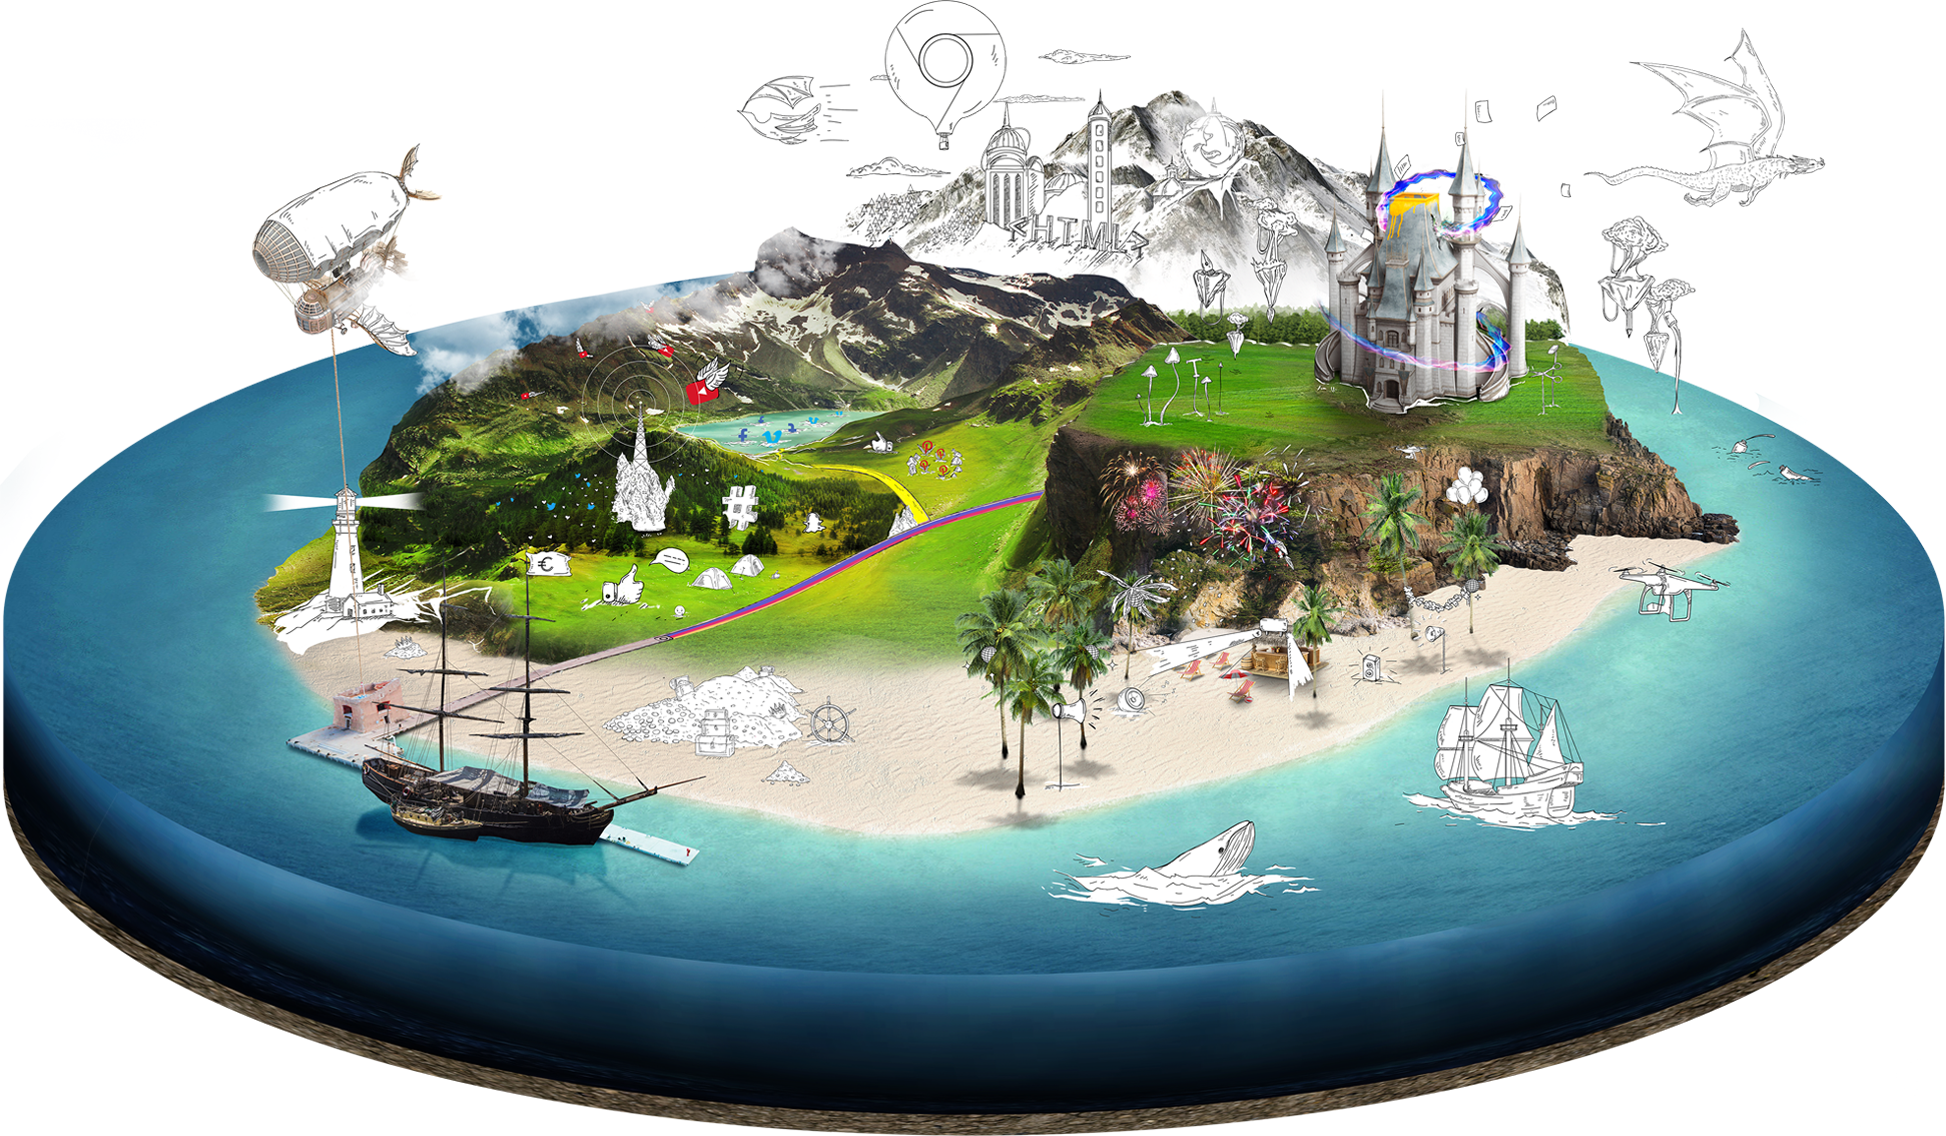
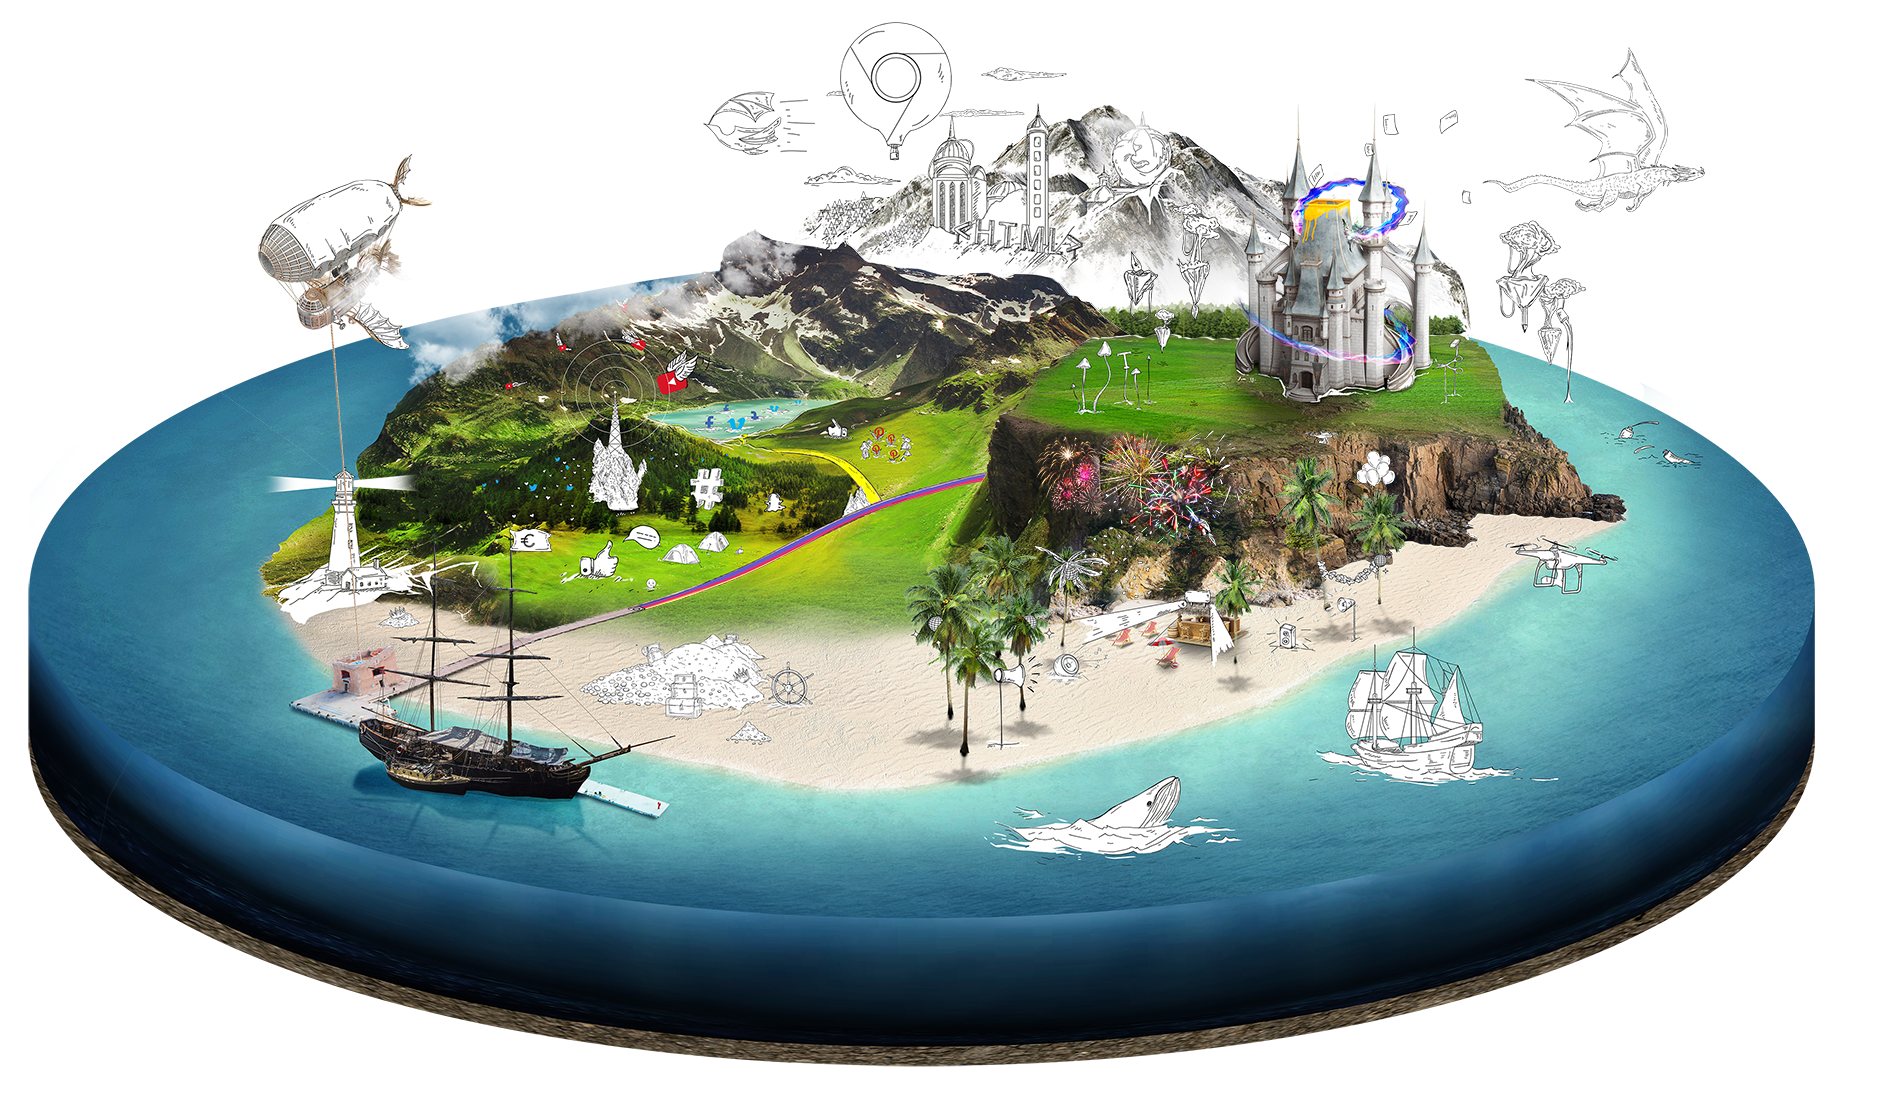
map-image

diff --git a/index.html b/index.html
@@ -17,32 +17,34 @@
   <main>
       <div class="grpelem" id="island">
       <img class="block" id="island_img" src="images/wyspa%20www.png" alt="" usemap="#Map"  />
-<map name="Map" id="Map">
-    <area alt="" title="" href="#" shape="poly" coords="1042,499,1011,506,967,518,926,530,891,547,861,562,827,580,790,597,759,609,723,623,686,637,644,647,612,656,580,665,555,667,533,663,531,656,531,619,531,575,577,575,567,560,570,555,550,551,534,554,524,550,526,616,507,611,495,583,472,576,440,574,410,574,384,566,375,555,366,544,361,525,358,516,358,505,429,511,420,503,425,495,357,500,357,494,348,484,333,328,344,335,354,329,361,329,380,348,397,354,420,353,408,342,408,328,396,331,391,325,380,310,370,304,363,300,392,283,415,283,426,275,410,269,406,261,406,256,397,252,397,234,402,220,408,209,409,196,441,200,437,195,423,192,410,190,405,181,413,174,415,157,417,145,404,155,399,173,394,183,374,174,350,178,329,186,304,197,281,210,260,229,251,247,254,264,263,277,280,290,293,305,294,322,304,336,328,333,344,489,334,497,185,414,127,445,81,481,47,514,17,559,4,596,4,799,22,851,54,893,100,937,146,967,189,988,233,1011,273,1026,326,1045,384,1061,430,1075,494,1088,549,1102,602,1109,665,1116,717,1124,769,1128,836,1133,827,988,827,900,834,846,849,793,880,729,921,650" />
-
-    <area alt="" title="" href="#" shape="poly" coords="849,1134,838,1132,828,991,829,901,836,840,852,792,873,750,888,715,954,611,985,572,1011,540,1035,504,1062,508,1099,531,1128,577,1139,575,1151,573,1169,583,1178,588,1167,647,1255,629,1262,619,1277,621,1289,617,1304,611,1294,602,1295,595,1303,599,1307,603,1307,595,1299,588,1311,591,1317,595,1319,595,1321,590,1328,589,1328,597,1323,602,1336,604,1347,611,1334,612,1336,618,1342,624,1344,633,1363,636,1383,634,1394,625,1404,612,1405,595,1406,578,1405,563,1399,560,1388,557,1388,543,1388,538,1381,549,1379,542,1382,530,1386,520,1389,511,1378,518,1366,515,1360,511,1369,509,1377,501,1365,498,1361,494,1371,491,1383,497,1378,482,1378,475,1391,485,1390,471,1404,468,1404,483,1403,491,1412,485,1424,491,1412,496,1410,506,1422,512,1435,526,1412,520,1419,554,1404,547,1401,557,1409,578,1422,596,1436,603,1450,601,1459,590,1465,576,1465,566,1451,570,1455,557,1445,550,1438,550,1442,541,1453,537,1441,534,1439,526,1461,530,1456,514,1466,514,1462,503,1450,498,1448,493,1450,484,1451,480,1457,477,1458,475,1461,464,1469,466,1472,469,1477,471,1485,476,1485,484,1485,487,1489,496,1485,504,1482,508,1487,510,1490,512,1487,528,1487,533,1495,530,1504,530,1498,539,1509,544,1515,556,1499,553,1488,549,1504,561,1491,557,1491,580,1478,564,1476,576,1481,589,1475,595,1502,570,1508,561,1529,568,1548,572,1568,573,1575,567,1575,557,1567,545,1576,532,1603,538,1620,536,1639,540,1661,540,1688,539,1705,543,1723,546,1735,542,1924,548,1942,591,1945,615,1945,793,1930,845,1906,878,1875,915,1838,941,1795,970,1746,996,1693,1018,1645,1036,1586,1057,1519,1072,1447,1091,1381,1104,1275,1117,1208,1125,1122,1134" />
+<map name="Map">
+     <area target="" alt="1" title="1" href="#" coords="410,346,399,336,400,324,385,316,377,309,369,302,364,291,367,281,377,273,385,268,394,276,397,263,387,249,387,238,392,226,395,214,400,203,410,203,419,206,430,201,419,194,405,191,402,178,410,168,410,155,400,160,395,168,390,185,375,178,360,178,339,185,326,191,306,198,287,208,271,221,262,236,259,249,261,263,267,274,296,279,309,283,302,291,296,306,299,316,302,324,317,329,329,322,339,472,222,391,202,401,175,412,157,422,140,432,118,449,107,457,65,502,27,560,28,769,55,824,87,857,112,879,152,905,187,924,226,945,268,962,316,980,366,995,413,1010,466,1022,512,1031,555,1040,604,1045,645,1050,693,1056,747,1060,805,1063,835,1061,805,995,785,945,776,909,776,884,785,847,800,796,816,754,835,711,855,669,868,636,883,608,904,579,928,548,946,523,961,501,984,480,944,486,909,496,868,511,838,528,803,544,766,561,730,578,682,597,649,607,624,611,584,621,541,627,512,627,514,592,536,596,511,581,511,549,549,549,547,534,531,529,514,528,511,564,502,589,489,589,511,599,457,597,442,586,434,578,423,561,406,549,379,539,366,523,361,506,356,486,421,493,409,481,419,473,356,475,344,460,331,332,339,323,349,317,361,327,374,338,389,348,399,348" shape="poly">
+    <area target="" alt="2" title="2" href="#" coords="833,1061,813,1015,798,980,782,937,777,909,778,870,788,829,803,784,830,719,851,671,868,638,881,605,910,571,934,536,956,504,966,501,978,507,994,521,1009,536,1016,552,1036,557,1032,544,1059,556,1069,544,1076,552,1092,556,1109,564,1082,562,1101,572,1081,572,1087,590,1071,580,1067,619,1180,600,1187,587,1209,590,1230,584,1210,571,1227,574,1220,557,1239,569,1253,567,1245,577,1265,582,1247,585,1258,592,1247,595,1249,604,1277,605,1303,600,1317,590,1322,577,1313,534,1302,536,1303,517,1292,524,1293,506,1282,512,1300,492,1268,494,1287,486,1272,473,1297,477,1295,458,1307,466,1315,453,1317,473,1333,468,1318,484,1343,504,1325,497,1330,521,1315,504,1327,567,1340,567,1353,559,1370,559,1373,542,1363,547,1353,536,1353,524,1363,519,1350,512,1365,506,1365,496,1366,486,1355,474,1362,466,1366,456,1373,449,1381,456,1391,461,1395,473,1390,482,1378,484,1390,496,1401,496,1391,511,1408,511,1401,522,1425,524,1405,529,1411,537,1428,544,1460,547,1474,539,1463,532,1470,521,1476,512,1504,514,1515,511,1532,516,1545,516,1564,518,1584,518,1603,519,1622,519,1795,521,1806,549,1813,574,1815,616,1813,744,1803,790,1785,825,1753,859,1706,894,1637,934,1566,965,1491,992,1408,1013,1322,1030,1241,1043,1152,1055,1071,1060,1006,1065,948,1065,895,1063,860,1063" shape="poly">
+    <area target="" alt="3" title="3" href="#" coords="986,476,959,501,972,503,986,514,997,526,1009,538,1014,551,1035,556,1032,543,1059,554,1067,544,1109,564,1085,563,1100,571,1084,571,1089,589,1072,581,1067,617,1180,599,1187,588,1210,589,1228,583,1208,571,1223,573,1220,556,1238,569,1255,564,1245,576,1263,581,1248,584,1256,589,1246,594,1275,604,1301,598,1318,589,1321,578,1313,531,1301,536,1303,516,1290,523,1295,504,1281,511,1300,491,1268,493,1286,483,1270,473,1296,476,1295,456,1308,466,1313,453,1318,473,1331,470,1318,485,1341,501,1325,496,1328,518,1315,503,1330,566,1346,563,1366,559,1371,539,1363,546,1353,534,1361,519,1349,509,1363,504,1366,485,1356,475,1361,466,1373,448,1381,456,1391,461,1396,473,1389,480,1379,483,1389,495,1399,495,1391,509,1406,511,1401,521,1426,523,1406,529,1413,538,1431,544,1449,546,1462,544,1472,539,1454,529,1469,528,1477,513,1500,512,1513,510,1530,515,1547,517,1565,515,1582,518,1794,520,1774,497,1751,470,1726,452,1698,432,1666,414,1633,394,1600,379,1572,369,1543,357,1512,349,1480,339,1469,334,1429,334,1430,271,1435,261,1429,246,1424,226,1424,200,1419,235,1410,259,1415,271,1414,281,1382,248,1389,241,1391,225,1402,218,1406,206,1406,191,1396,183,1386,176,1377,165,1374,141,1374,123,1374,100,1372,151,1367,171,1352,176,1339,178,1324,181,1309,186,1304,171,1299,148,1299,125,1297,102,1297,135,1294,163,1289,178,1279,196,1283,205,1283,223,1289,231,1288,241,1266,261,1264,249,1258,233,1253,216,1251,203,1249,225,1248,239,1244,251,1246,259,1246,301,1245,324,1238,335,1222,337,1207,337,1183,337,1170,332,1165,320,1173,315,1165,304,1154,309,1154,319,1154,329,1135,335,1122,335,1099,335,1084,342,1074,348,1060,355,1047,360,1037,368,1026,387,1022,395,1014,405,1004,412,996,420,994,430,986,441,991,453,987,465" shape="poly">
+    <area target="" alt="4" title="4" href="#" coords="790,240,800,228,806,213,819,205,829,203,836,195,844,198,853,193,859,197,864,190,871,195,884,197,894,192,904,185,914,177,924,175,929,163,936,148,947,142,952,114,957,140,966,147,971,158,979,163,992,158,1004,147,1017,140,1027,128,1034,115,1037,100,1040,118,1049,123,1064,118,1077,118,1092,109,1109,104,1120,112,1134,123,1142,109,1145,123,1158,132,1170,128,1183,135,1198,145,1213,155,1227,165,1237,163,1250,173,1260,177,1271,178,1283,182,1280,192,1283,203,1282,218,1290,231,1288,240,1265,258,1263,246,1255,223,1250,200,1245,250,1247,260,1245,303,1245,318,1240,328,1227,336,1210,336,1197,336,1182,336,1164,319,1174,313,1164,301,1154,308,1154,324,1137,334,1127,333,1107,318,1089,300,1074,296,1064,285,1051,275,1031,273,1012,271,1004,275,979,270,966,275,948,275,928,270,911,268,894,266,876,265,863,261,841,240,836,248,810,244,799,240" shape="poly">
+    <area target="" alt="5" title="5" href="#" coords="401,324,430,319,461,311,495,304,531,296,568,291,608,283,642,279,686,269,719,271,722,253,729,243,744,233,754,229,764,234,787,238,797,238,807,243,835,246,843,238,863,259,895,264,920,268,942,274,966,274,980,269,1003,276,1013,268,1050,276,1071,294,1089,299,1101,313,1114,323,1129,334,1098,336,1076,344,1056,356,1040,362,1028,384,1016,399,1000,416,993,427,985,439,990,454,985,474,976,480,958,484,943,485,920,494,892,502,867,510,845,524,822,533,800,543,774,557,754,565,734,575,704,588,682,597,651,607,637,607,613,612,583,618,566,622,541,625,511,626,513,590,536,593,511,578,513,547,549,547,546,532,513,528,509,562,503,587,508,598,481,595,455,595,435,580,421,560,406,550,383,538,365,524,360,507,355,485,222,389" shape="poly">
 </map>
      </div>
     <!-- images 
     <div class="grpelem" id="chmury">
-      <img class="block" id="chmury_img" src="images/lemonhills%20kv%20--%20totalnie%20aktualny%20v33333%20sp%c5%82aszcony%20v3%20flat-chmury.png?crc=4262146640" alt="" />
+      <img class="block" id="chmury_img" src="images/chmury.png?crc=4262146640" alt="" />
      </div>
      <div class="grpelem" id="www">
-      <img class="block" id="www_img" src="images/lemonhills%20kv%20--%20totalnie%20aktualny%20v33333%20sp%c5%82aszcony%20v3%20flat-www.png?crc=3798000139" alt="" />
+      <img class="block" id="www_img" src="images/www.png?crc=3798000139" alt="" />
      </div>
      <div class="grpelem" id="sm">
-      <img class="block" id="sm_img" src="images/lemonhills%20kv%20--%20totalnie%20aktualny%20v33333%20sp%c5%82aszcony%20v3%20flat-sm.png?crc=250162591" alt="" />
+      <img class="block" id="sm_img" src="images/sm.png?crc=250162591" alt="" />
      </div>
      <div class="grpelem" id="kreacja">
-      <img class="block" id="kreacja_img" src="images/lemonhills%20kv%20--%20totalnie%20aktualny%20v33333%20sp%c5%82aszcony%20v3%20flat-krea.png?crc=3884338138" alt="" />
+      <img class="block" id="kreacja_img" src="images/krea.png?crc=3884338138" alt="" />
      </div>
      <div class="grpelem" id="newbiz">
-      <img class="block" id="newbiz_img" src="images/lemonhills%20kv%20--%20totalnie%20aktualny%20v33333%20sp%c5%82aszcony%20v3%20flat-new%20biz.png?crc=4246373260" />
+      <img class="block" id="newbiz_img" src="images/new%20biz.png?crc=4246373260" />
      </div>   
      <div class="grpelem" id="eventy">
-      <img class="block" id="eventy_img"  src="images/lemonhills%20kv%20--%20totalnie%20aktualny%20v33333%20sp%c5%82aszcony%20v3%20flat-eventyt.png?crc=4285282405" />
+      <img class="block" id="eventy_img"  src="images/eventyt.png?crc=4285282405" />
      <div class="grpelem" id="chmury2">
-         <img class="block" id="chmury2_img" src="images/lemonhills%20kv%20--%20totalnie%20aktualny%20v33333%20sp%c5%82aszcony%20v3%20flat-chmury2.png?crc=4104314251" /></div>
+         <img class="block" id="chmury2_img" src="images/chmury2.png?crc=4104314251" /></div>
 
 -->
     </main>  

diff --git a/js/app.js b/js/app.js
@@ -1,6 +1,6 @@
 $(document).ready(function(){
     
-    //resizing map-image - na razie raz, po zaladowaniu strony
+    //resizing map-image -  raz, po zaladowaniu strony
     
 
     var ImageMap = function (map) {
@@ -8,7 +8,7 @@ $(document).ready(function(){
                 areas = map.getElementsByTagName('area'),
                 len = areas.length,
                 coords = [],
-                previousWidth = 2780;  
+                previousWidth = 2690;  
             console.log(areas);
             for (n = 0; n < len; n++) {
                 coords[n] = areas[n].coords.split(',');
@@ -32,38 +32,26 @@ $(document).ready(function(){
     imageMap.resize();
 
     
-    //map
+    // podpiecie biblioteki maplight
     
     jQuery('#island_img').maphilight();
 
 
     
     $('#island_img').maphilight({ 
-        stroke: true, 
+        stroke: false, 
         strokeColor: 'ffffff',
-        strokeWidth: 1,
+        strokeWidth: 0,
         fillColor: '009DDF', 
         fillOpacity: 0.3 
     });
     
     
-    /*
-    mozna wstawic w area:
-    
-    data-maphilight='{"strokeColor":"0000ff","strokeWidth":5,"fillColor":"00ff00","fillOpacity":0.6}'>
-    
-    http://jsfiddle.net/k67gq/6/
-    
-    
-    */
+   //eventy na najechanie mysza i zjechanie
 
     
    var areas = $('area');
 
-    
-    
-    
-    
     
     areas.on('mouseenter', function(event){
        event.preventDefault();

diff --git a/js/jquery.maphilight.js b/js/jquery.maphilight.js
@@ -356,7 +356,7 @@
 		groupBy: false,
 		wrapClass: true,
 		// plenty of shadow:
-		shadow: false,
+		shadow: true,
 		shadowX: 0,
 		shadowY: 0,
 		shadowRadius: 6,
